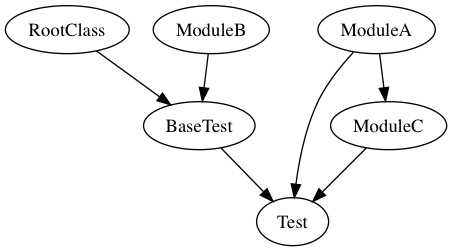
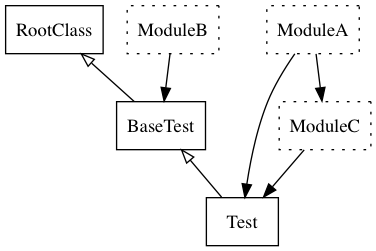
updating styles for classes and modules

diff --git a/lib/ruby_erd/printer.rb b/lib/ruby_erd/printer.rb
@@ -1,0 +1,53 @@
+module RubyErd
+  class Printer
+    def self.print(nodes, edges, output=nil)
+      new(nodes, edges, output).print
+    end
+
+    def initialize(nodes, edges, output=nil)
+      @nodes = nodes
+      @edges = edges
+      @output = output
+    end
+
+    def print
+      @result = GraphViz.new(:G, type: :digraph) do |g|
+        @nodes.each do |node|
+          add_node(g, node[0], node[1])
+        end
+
+        @edges.each do |edge|
+          add_edge(g, edge[0], edge[1], edge[2])
+        end
+      end
+
+      @result.output(png: @output || 'a.png')
+    end
+
+    def add_node(g, type, name)
+      options = {}
+
+      case type
+      when 'class'
+        options.merge!(shape: 'box')
+      when 'module'
+        options.merge!(shape: 'box', style: 'dotted')
+      end
+# binding.pry
+      g.add_node(name, **options)
+    end
+
+    def add_edge(g, type, from, to)
+      options = {}
+
+      case type
+      when 'included'
+        options.merge!(arrowhead: 'none', arrowtail: 'normal')
+      when 'is-a'
+        options.merge!(arrowhead: 'none', arrowtail: 'onormal', dir: 'both')
+      end
+
+      g.add_edge(from, to, **options)
+    end
+  end
+end

diff --git a/lib/ruby_erd/generator.rb b/lib/ruby_erd/generator.rb
@@ -31,17 +31,7 @@ module RubyErd
     end
 
     def print
-      @result = GraphViz.new(:G, type: :digraph) do |g|
-        @nodes.each do |node|
-          g.add_node(node[1])
-        end
-
-        @edges.each do |edge|
-          g.add_edge(edge[1], edge[2])
-        end
-      end
-
-      @result.output(png: @options.output || 'a.png')
+      Printer.print(@nodes, @edges, @options.output)
     end
 
     private

diff --git a/spec/ruby_erd_spec.rb b/spec/ruby_erd_spec.rb
@@ -19,7 +19,7 @@ RSpec.describe RubyErd do
         config_file: 'spec/examples/class_02.rb',
         project_dir: 'spec',
         klasses: ['Test'],
-        filename: 'test.png'
+        output: 'test.png'
       })
     end
 

diff --git a/lib/ruby_erd.rb b/lib/ruby_erd.rb
@@ -3,6 +3,7 @@ require "ruby_erd/version"
 require "ruby_erd/options_struct"
 require "ruby_erd/source_location"
 require "ruby_erd/generator"
+require "ruby_erd/printer"
 require "ruby_erd/klass"
 require "ruby_erd/k_module"
 
